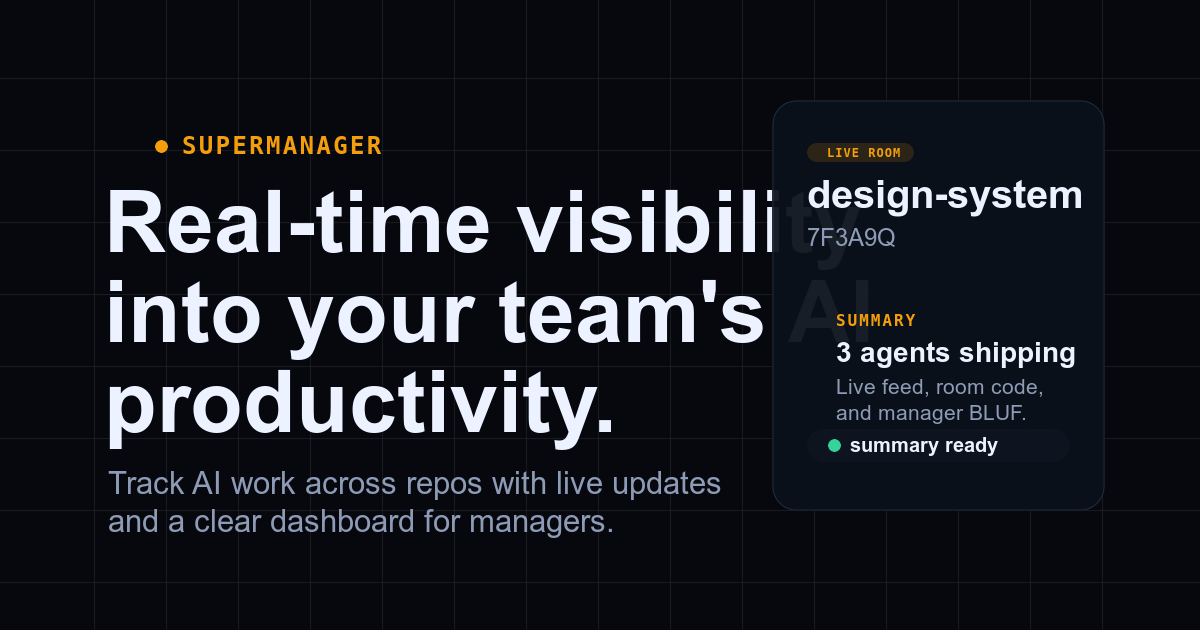
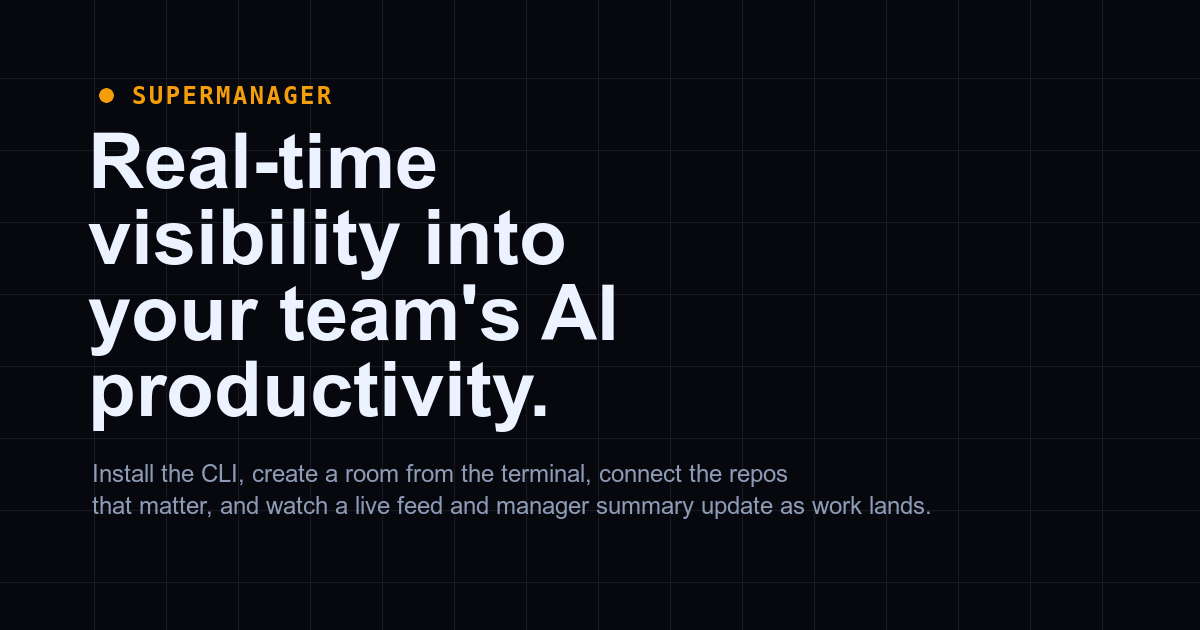
fix: opengraph ugliness

Changed region(s): [[0.0617, 0.2111, 0.925, 0.8444], [0.0617, 0.1206, 0.2775, 0.181], [0.6783, 0.1508, 0.8942, 0.181]]

diff --git a/web/index.html b/web/index.html
@@ -6,7 +6,7 @@
     <title>supermanager | Real-time visibility into your team's AI productivity</title>
     <meta
       name="description"
-      content="Track AI work across repos with live updates and a clear dashboard for managers."
+      content="Supermanager gives managers real-time visibility into AI work across repos with live room feeds and concise summaries of what shipped."
     />
     <meta name="theme-color" content="#070b12" />
     <link rel="canonical" href="https://supermanager.dev" />
@@ -16,7 +16,7 @@
     <meta property="og:title" content="supermanager | Real-time visibility into your team's AI productivity" />
     <meta
       property="og:description"
-      content="Track AI work across repos with live updates and a clear dashboard for managers."
+      content="Supermanager gives managers real-time visibility into AI work across repos with live room feeds and concise summaries of what shipped."
     />
     <meta property="og:url" content="https://supermanager.dev" />
     <meta property="og:image" content="https://supermanager.dev/opengraph.png" />
@@ -25,19 +25,19 @@
     <meta property="og:image:height" content="630" />
     <meta
       property="og:image:alt"
-      content="supermanager dashboard preview with the message Real-time visibility into your team's AI productivity."
+      content="supermanager landing page preview with the headline Real-time visibility into your team's AI productivity."
     />
 
     <meta name="twitter:card" content="summary_large_image" />
     <meta name="twitter:title" content="supermanager | Real-time visibility into your team's AI productivity" />
     <meta
       name="twitter:description"
-      content="Track AI work across repos with live updates and a clear dashboard for managers."
+      content="Supermanager gives managers real-time visibility into AI work across repos with live room feeds and concise summaries of what shipped."
     />
     <meta name="twitter:image" content="https://supermanager.dev/opengraph.png" />
     <meta
       name="twitter:image:alt"
-      content="supermanager dashboard preview with the message Real-time visibility into your team's AI productivity."
+      content="supermanager landing page preview with the headline Real-time visibility into your team's AI productivity."
     />
   </head>
   <body>
